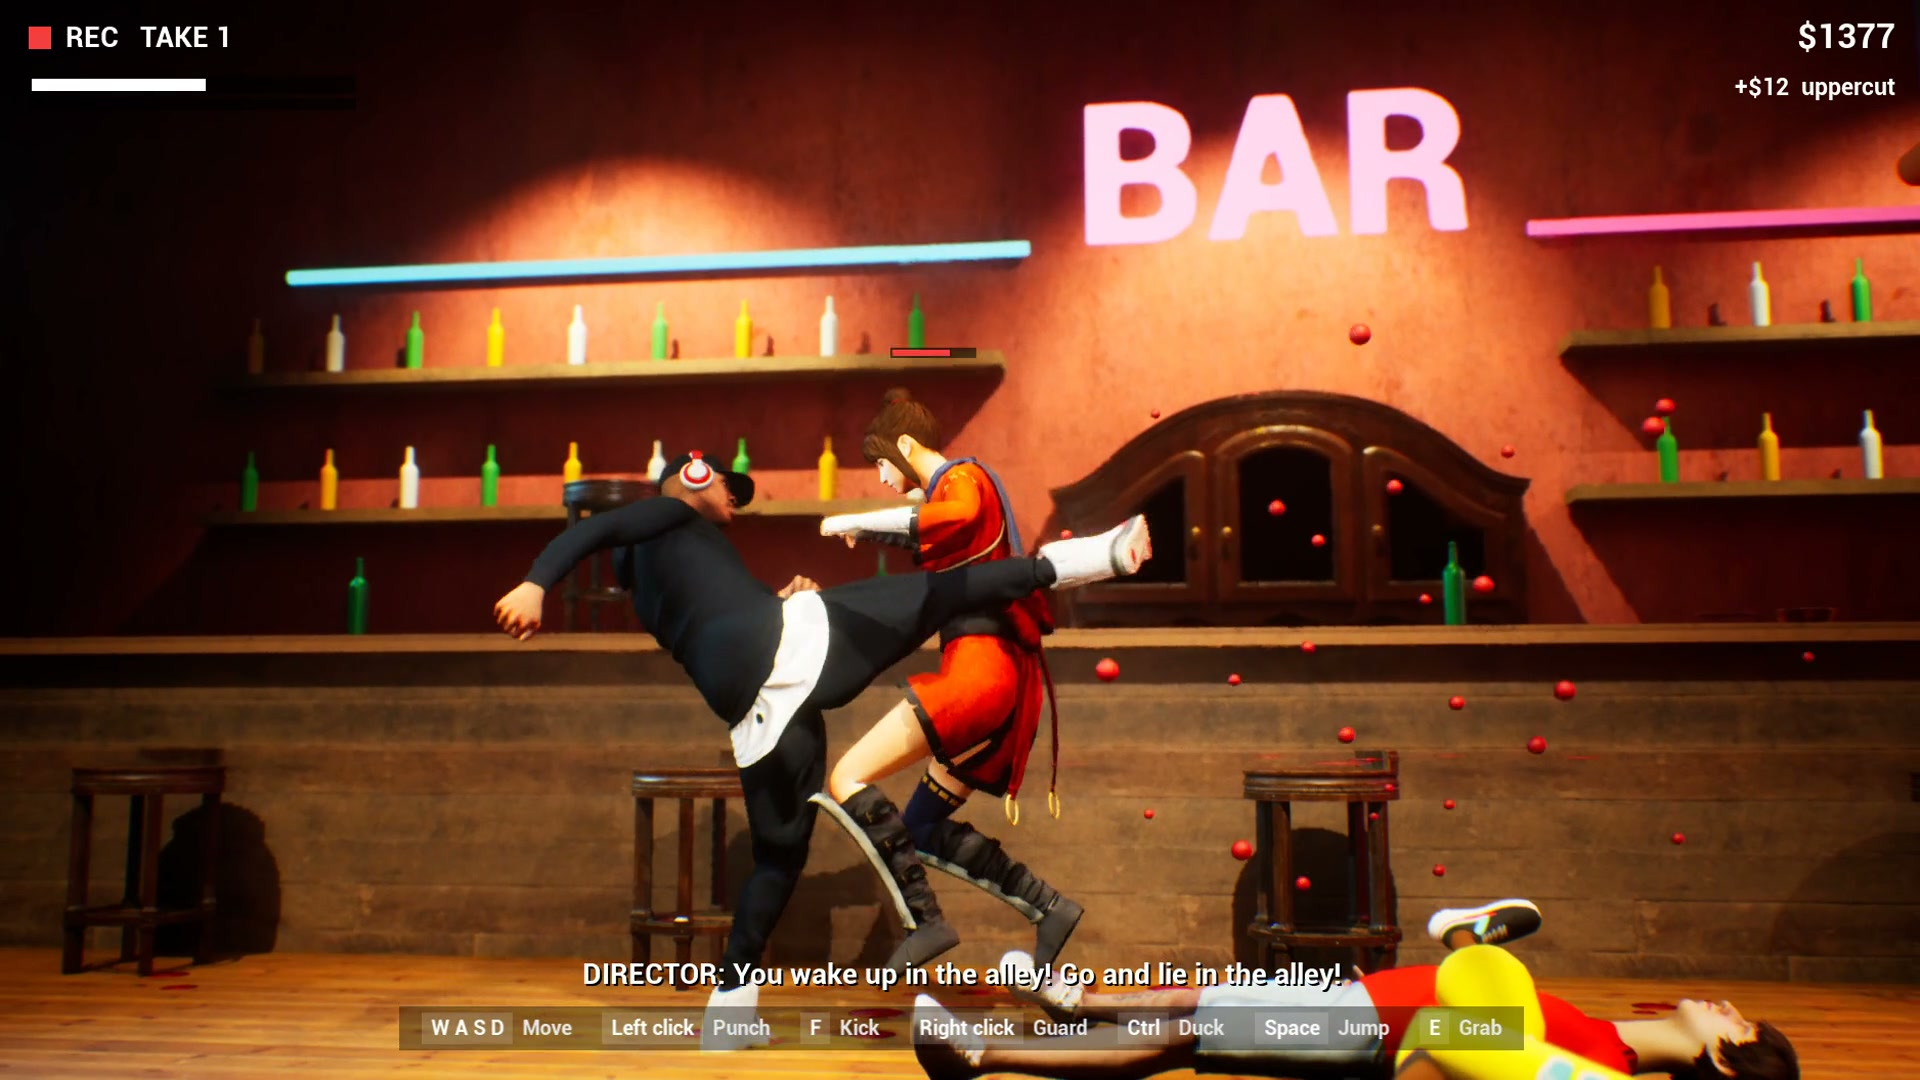
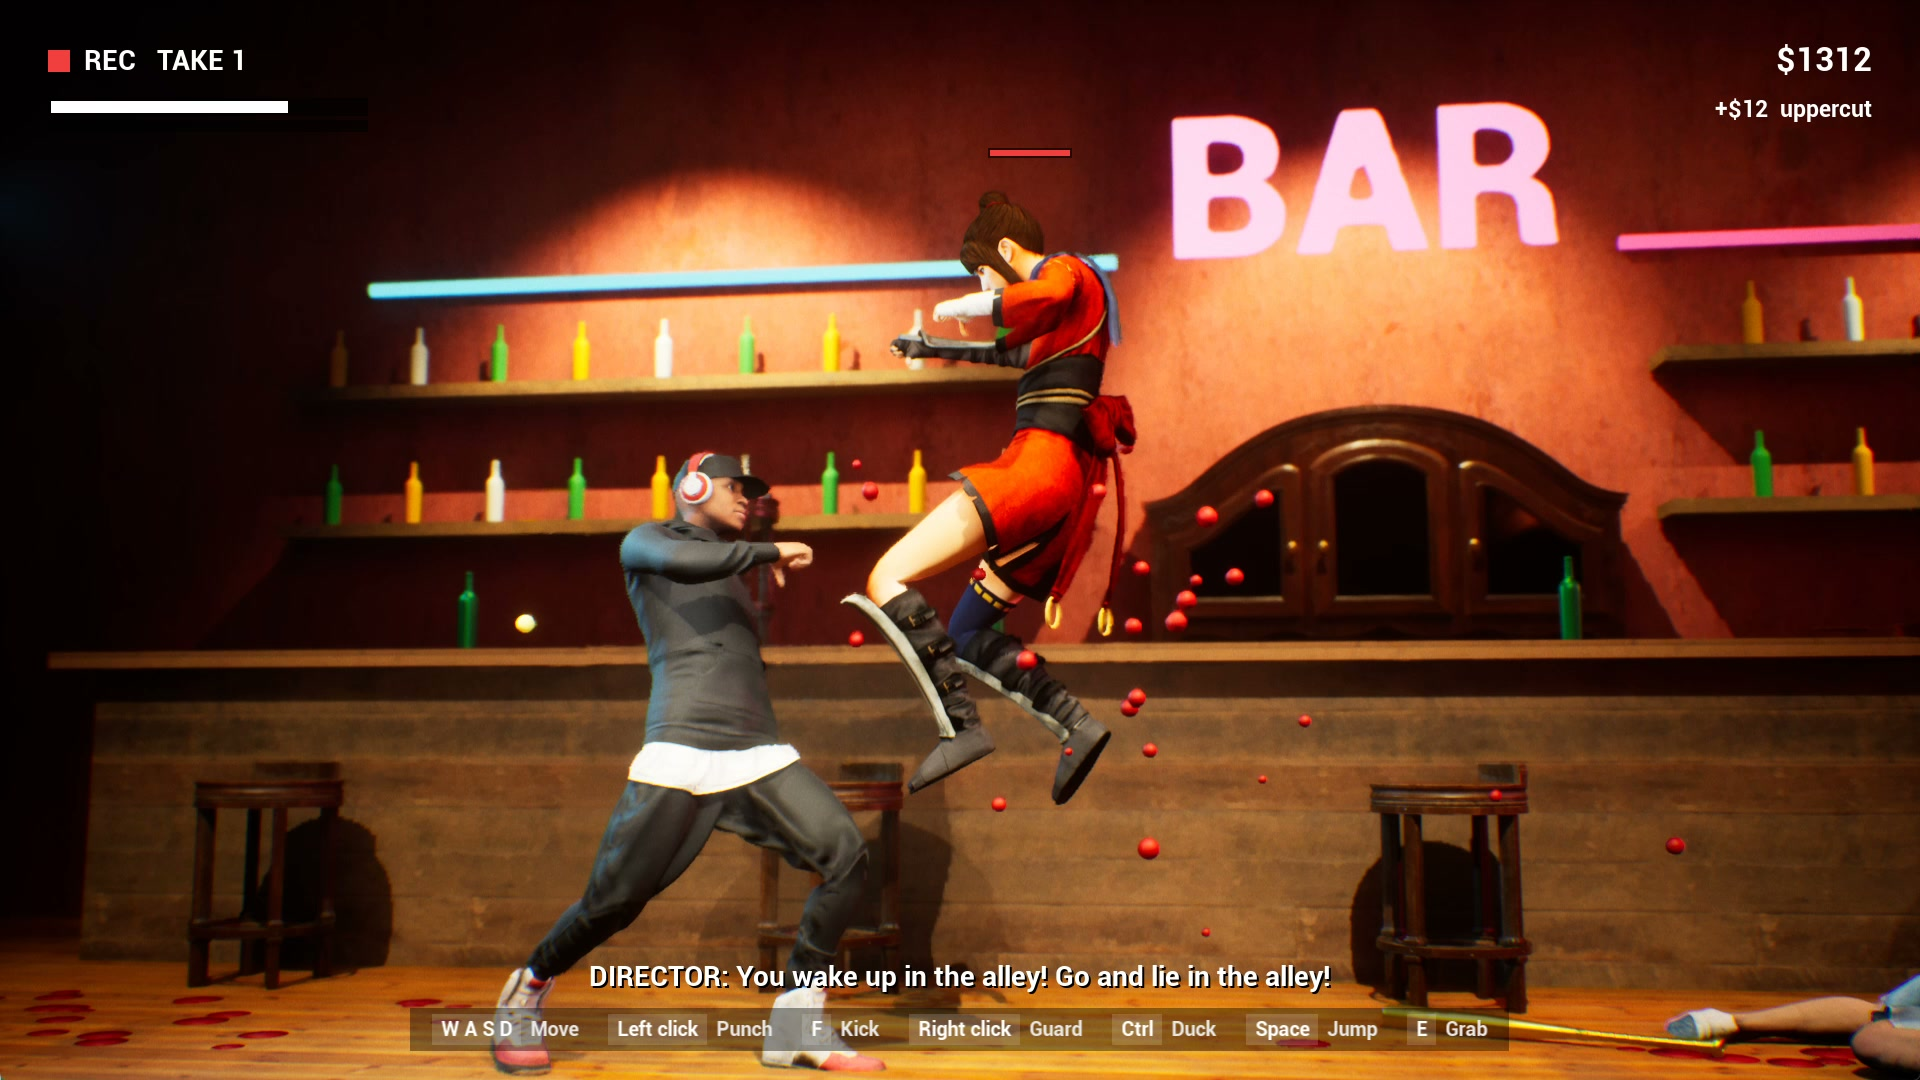
The project as it stood at c3dafcf

diff --git a/Source/StickToTheScript/Fighter/StickFighter.cpp b/Source/StickToTheScript/Fighter/StickFighter.cpp
@@ -374,6 +374,16 @@ namespace
 	const double ThrowLeanRadians = 0.42;
 	// A strike thrown from too close steps back by up to this much, so the fist does not go through the body.
 	const double StepBackDistance = 40.;
+	// The body a fist or a foot stops at, as a post round where an opponent stands: how wide it is for a fighter of
+	// the usual build, from how high above the floor to how high, and how far a fist and a foot go on past the
+	// wrist and the ankle that are their joints. A limb is never drawn back to less than this share of its reach.
+	const double ChestRadius = 13.;
+	const double BodyStartsAbove = 45.;
+	const double BodyEndsAbove = 185.;
+	const double DuckedBodyEndsAbove = 125.;
+	const double FistPastWrist = 9.;
+	const double FootPastAnkle = 14.;
+	const double ShortestDrawnBack = 0.25;
 
 	// Where an elbow or knee sits, given both ends of the limb, its two lengths and the way it bends.
 	FVector MiddleJoint(const FVector& Root, const FVector& End, double UpperLength, double LowerLength, const FVector& BendDirection)
@@ -1578,10 +1588,9 @@ TArray<FVector> AStickFighter::BuildJoints(bool bWithBrokenArms) const
 		}
 	}
 
-	// Not during a strike: a carried prop then follows the fists, which is what makes a swing of it.
-	if (CarryAlpha > 0.f && State != EFighterState::Busy)
+	// How whatever is carried is held. A crate is carried overhead. A weapon is held ready in front of the chest.
+	const auto PoseCarry = [this, &Joints]()
 	{
-		// A crate is carried overhead. A weapon is held ready in front of the chest.
 		const EPropHold Hold = Carried.IsValid() ? Carried->GetHold() : EPropHold::Overhead;
 		const FVector Ahead = GetActorForwardVector();
 		if (Hold == EPropHold::LongGun || Hold == EPropHold::OneHand)
@@ -1592,10 +1601,12 @@ TArray<FVector> AStickFighter::BuildJoints(bool bWithBrokenArms) const
 			const FVector Outward = FVector::UpVector ^ Ahead;
 			if (Hold == EPropHold::LongGun)
 			{
-				// Shouldered: the right hand at the grip by the chest, the left forward under the barrel.
-				const FVector Grip = Held[RightShoulder] + Ahead * 16. - FVector::UpVector * 15. - Outward * 5.;
+				// Shouldered: the right hand at the grip, far enough ahead of the shoulder that the butt rests on it and
+				// does not stand out behind, and the left as far forward under the barrel as it reaches. The gun is
+				// kept by its grip (GripToMiddle in ThrownProp.cpp), a forearm's length ahead of its butt.
+				const FVector Grip = Held[RightShoulder] + Ahead * 30. - FVector::UpVector * 7. - Outward * 4.;
 				ReachWithArm(Held, Reach, 1, Grip, Outward * 0.7 - FVector::UpVector);
-				ReachWithArm(Held, Reach, 0, Grip + Ahead * 36. + FVector::UpVector * 2., -Outward * 0.3 - FVector::UpVector);
+				ReachWithArm(Held, Reach, 0, Grip + Ahead * 30. - FVector::UpVector, -Outward * 0.3 - FVector::UpVector);
 			}
 			else
 			{
@@ -1609,8 +1620,9 @@ TArray<FVector> AStickFighter::BuildJoints(bool bWithBrokenArms) const
 		}
 		else if (Hold == EPropHold::Pistol)
 		{
-			// In both hands, out in front and a little under the eye, with the elbows bent.
-			PoseArms(Joints, Ahead, CarryAlpha, 38., 2.5, -12.);
+			// In both hands at arm's length, a little under the eye, the elbows only just bent. Held closer, as it
+			// first was, the elbows stood out to the sides and it was the grip of someone about to swing a bat.
+			PoseArms(Joints, Ahead, CarryAlpha, 47., 2.5, -6.);
 		}
 		else if (Hold == EPropHold::Swung)
 		{
@@ -1620,6 +1632,11 @@ TArray<FVector> AStickFighter::BuildJoints(bool bWithBrokenArms) const
 		{
 			PoseArms(Joints, Ahead, CarryAlpha, 6., 15., 32.);
 		}
+	};
+	// Not during a strike: a carried prop then follows the fists, which is what makes a swing of it.
+	if (CarryAlpha > 0.f && State != EFighterState::Busy)
+	{
+		PoseCarry();
 	}
 
 	if (ThrowSecondsLeft > 0.f && State != EFighterState::Busy)
@@ -1645,6 +1662,13 @@ TArray<FVector> AStickFighter::BuildJoints(bool bWithBrokenArms) const
 		PoseTechnique(Joints, GetActorForwardVector(), StrikeMove, Phase, PosedSide);
 	}
 
+	// A gun stays in its hold through a kick. Left to follow one fist, as other props do, it waved about over its
+	// carrier's head while his legs did the work.
+	if (CarryAlpha > 0.f && State == EFighterState::Busy && Carried.IsValid() && Carried->IsGun())
+	{
+		PoseCarry();
+	}
+
 	if (bAiming)
 	{
 		const double Upper = FVector::Dist(Joints[RightShoulder], Joints[RightElbow]);
@@ -1652,6 +1676,12 @@ TArray<FVector> AStickFighter::BuildJoints(bool bWithBrokenArms) const
 		const FVector Towards = (AimPoint - Joints[RightShoulder]).GetSafeNormal();
 		Joints[RightHand] = Joints[RightShoulder] + Towards * ((Upper + Lower) * 0.96);
 		Joints[RightElbow] = MiddleJoint(Joints[RightShoulder], Joints[RightHand], Upper, Lower, -FVector::UpVector);
+		// The other hand comes up under the grip, as far as it reaches: a pistol held out in one fist was a toy.
+		const double LeftUpper = FVector::Dist(Joints[LeftShoulder], Joints[LeftElbow]);
+		const double LeftLower = FVector::Dist(Joints[LeftElbow], Joints[LeftHand]);
+		const FVector Support = Joints[RightHand] - Towards * 5. - FVector::UpVector * 3.;
+		Joints[LeftHand] = Joints[LeftShoulder] + (Support - Joints[LeftShoulder]).GetClampedToMaxSize((LeftUpper + LeftLower) * 0.99);
+		Joints[LeftElbow] = MiddleJoint(Joints[LeftShoulder], Joints[LeftHand], LeftUpper, LeftLower, -FVector::UpVector);
 	}
 
 	if (RecoilProgress < 1.f)
@@ -1664,6 +1694,8 @@ TArray<FVector> AStickFighter::BuildJoints(bool bWithBrokenArms) const
 		}
 	}
 
+	KeepOutOfBodies(Joints);
+
 	if (bWithBrokenArms)
 	{
 		for (int32 Side = 0; Side < 2; ++Side)
@@ -1675,6 +1707,61 @@ TArray<FVector> AStickFighter::BuildJoints(bool bWithBrokenArms) const
 		}
 	}
 	return Joints;
+}
+
+void AStickFighter::KeepOutOfBodies(TArray<FVector>& Joints) const
+{
+	// The plain figure was a line and a strike could not go into it. A model has a chest, and a kick that reached
+	// the line had gone a shin's length into the body. So an opponent on his feet is taken for an upright post, and
+	// a wrist or an ankle that is inside it is drawn back along its limb to where the limb went in.
+	const int32 Ends[4][3] = { { LeftShoulder, LeftElbow, LeftHand }, { RightShoulder, RightElbow, RightHand }, { LeftHip, LeftKnee, LeftFoot }, { RightHip, RightKnee, RightFoot } };
+	for (TActorIterator<AStickFighter> It(GetWorld()); It; ++It)
+	{
+		const AStickFighter* Other = *It;
+		if (Other == this || Other->Team == Team || Other->IsDown())
+		{
+			continue;
+		}
+		const double Scale = Other->GetActorScale3D().Z;
+		const FVector Stands = Other->GetActorLocation();
+		const double Bottom = Stands.Z + BodyStartsAbove * Scale;
+		const double Top = Stands.Z + (Other->IsDucking() ? DuckedBodyEndsAbove : BodyEndsAbove) * Scale;
+		for (int32 Limb = 0; Limb < 4; ++Limb)
+		{
+			FVector& End = Joints[Ends[Limb][2]];
+			// The fist goes on past the wrist and the foot past the ankle, so the post is that much wider for them.
+			const double Radius = (ChestRadius * Other->Thickness / UsualThickness + (Limb < 2 ? FistPastWrist : FootPastAnkle)) * Scale;
+			const FVector Root = Joints[Ends[Limb][0]];
+			FVector& Middle = Joints[Ends[Limb][1]];
+			// Where the line from the limb's root to its end goes into the post, seen from above.
+			const FVector2D Step(End - Root);
+			const FVector2D Off(Root - Stands);
+			const double A = Step.SizeSquared();
+			const double B = 2. * (Off | Step);
+			const double C = Off.SizeSquared() - FMath::Square(Radius);
+			const double Reaches = B * B - 4. * A * C;
+			// With the limb's root inside as well, the two are standing in each other and no limb can be put right.
+			if (A < 1. || C <= 0. || Reaches <= 0.)
+			{
+				continue;
+			}
+			// A limb that goes in stops there, whether its end is inside or has come out on the far side.
+			const double WentIn = (-B - FMath::Sqrt(Reaches)) / (2. * A);
+			const double WentInAt = FMath::Lerp(Root.Z, End.Z, WentIn);
+			if (WentIn <= 0. || WentIn >= 1. || WentInAt < Bottom || WentInAt > Top)
+			{
+				continue;
+			}
+			const double Upper = FVector::Dist(Root, Middle);
+			const double Lower = FVector::Dist(Middle, End);
+			// The limb keeps the way it was bent, or bends as a limb does if it was straight: a knee up and
+			// forward, an elbow down.
+			const FVector WasBent = Middle - (Root + End) * 0.5;
+			const FVector Bend = WasBent.SizeSquared() > 4. ? WasBent : Limb < 2 ? -FVector::UpVector : GetActorForwardVector() + FVector::UpVector;
+			End = FMath::Lerp(Root, End, FMath::Clamp(WentIn, ShortestDrawnBack, 1.));
+			Middle = MiddleJoint(Root, End, Upper, Lower, Bend);
+		}
+	}
 }
 
 uint8 AStickFighter::GetBrokenArms() const

diff --git a/Source/StickToTheScript/Core/StickGameInstance.cpp b/Source/StickToTheScript/Core/StickGameInstance.cpp
@@ -2,6 +2,7 @@
 
 #include "AudioMixerBlueprintLibrary.h"
 #include "Containers/Ticker.h"
+#include "Engine/Engine.h"
 #include "HAL/FileManager.h"
 #include "JsonObjectConverter.h"
 #include "Misc/AutomationTest.h"
@@ -42,6 +43,11 @@ namespace
 void UStickGameInstance::Init()
 {
 	Super::Init();
+#if !WITH_EDITOR
+	// The jam asks for a Development build, and such a build writes the engine's own warnings over the picture: one
+	// about shadow maps came up in the middle of a film on the roof. A player has no use for them.
+	GAreScreenMessagesEnabled = false;
+#endif
 	GConfig->GetInt(ProgressSection, TEXT("ScenesWrapped"), ScenesWrapped, GGameUserSettingsIni);
 	GConfig->GetInt(ProgressSection, TEXT("Banked"), Banked, GGameUserSettingsIni);
 	GConfig->GetInt(ProgressSection, TEXT("OwnedLooks"), OwnedLooks, GGameUserSettingsIni);

diff --git a/Source/StickToTheScript/Fighter/StickFighter.h b/Source/StickToTheScript/Fighter/StickFighter.h
@@ -235,6 +235,8 @@ private:
 	void SwingBrokenArms(float DeltaSeconds);
 	void DemoNextMove();
 	TArray<FVector> BuildJoints(bool bWithBrokenArms) const;
+	// Brings a hand or a foot that has gone into an opponent's body back to its surface, and bends the limb to suit.
+	void KeepOutOfBodies(TArray<FVector>& Joints) const;
 	void PoseStick(const TArray<FVector>& Joints, uint8 BrokenArms);
 	void AdvanceFreeMovement(float DeltaSeconds);
 	void LandFreeStrike(const FVector& StrikePoint);

diff --git a/Docs/StorePage.md b/Docs/StorePage.md
@@ -75,12 +75,12 @@ Made by one developer directing an AI coding agent (Claude Code). The agent wrot
 
 The page exists as a draft since Fri Nov 13: https://the-fighter-ps.itch.io/stick-to-the-script (only the developer can see it). Its text, genre, tags and AI disclosure are filled in from this file, last on Sun Nov 15 at about 06:45, when its six pictures and its cover were also replaced with ones that show the cast. The zip on the page is Sunday's since Sun Nov 15 at 14:37, and the video it links to since 14:49.
 
-- [x] Cover, screenshots and the zip uploaded to the draft, on Fri Nov 13. The zip there is replaced whenever the game changes, last on Sun Nov 15 at 14:37 with the zip built that day at 13:14, 598 MB: the build with the cast, the big finish, the film's new cutting, the wardrobe that dyes and the new wounds. A file chooser opens only for the tab Chrome is showing, so the developer brought the tab to the front first. The game changed again that afternoon (a new heavy, a kid with a face): the zip built at 15:53, 611 MB, is the one to upload now. The page's upload buttons open a file chooser; `Toolschoose_file.ps1` fills it in
+- [x] Cover, screenshots and the zip uploaded to the draft, on Fri Nov 13. The zip there is replaced whenever the game changes, last on Sun Nov 15 at 14:37 with the zip built that day at 13:14, 598 MB: the build with the cast, the big finish, the film's new cutting, the wardrobe that dyes and the new wounds. A file chooser opens only for the tab Chrome is showing, so the developer brought the tab to the front first. The game changed again that afternoon (a new heavy, a kid with a face): the zip built at 17:14, 611 MB, is the one to upload now. The page's upload buttons open a file chooser; `Toolschoose_file.ps1` fills it in
 
 - [x] Team name: Page Twelve. The zip is `PageTwelve_StickToTheScript.zip`, made by `Tools\release.ps1 -Team PageTwelve`
-- [ ] Screenshots taken from the packaged game. Eight are in `Docs/store`, taken at 1920 by 1080 from a gameplay video of a self-played run of Sun Nov 15, 06:05, with the cast in it; the cover is cut from the second of them. (The eight before them, of Sat Nov 14, showed the dummy.) The eighth is the slate that ends a film. The strip along the top, where a tool on the developer's PC draws its frame counter, is cut off. Six of them are on the draft page since Sat Nov 14, 18:41, in this order: warehouse, bar, rooftop, the choice of cut, a film shot, the slate; `6-film-bar` and `7-film-rooftop` were left off. The developer has not chosen among them
+- [ ] Screenshots taken from the packaged game. Eight are in `Docs/store`, taken at 1920 by 1080 from a gameplay video of a self-played run of Sun Nov 15, 06:05, with the cast in it; the cover is cut from the second of them. (The eight before them, of Sat Nov 14, showed the dummy.) The eighth is the slate that ends a film. The strip along the top, where a tool on the developer's PC draws its frame counter, is cut off. Six of them are on the draft page, last replaced on Sun Nov 15 at 16:19 with frames of that afternoon's recording, in this order: warehouse, bar, rooftop, the choice of cut, a film shot, the slate; `6-film-bar` and `7-film-rooftop` were left off. The developer has not chosen among them
 - [x] A cover image, 630 by 500: `Docs/store/cover.png`
-- [x] The link to the 30 to 60 second gameplay video: https://www.youtube.com/watch?v=Rvms7Hs-x0Y (57 seconds, a self-played run of the build of Sun Nov 15 with the cast and the new wounds, cut at 13:42 and uploaded by the developer that afternoon). It is on the draft page too, since 14:49, and YouTube shows it without a sign-in. The videos before it were https://www.youtube.com/watch?v=HJW6ExPfZdc of Sat Nov 14 and https://www.youtube.com/watch?v=zvQRRTC56iA of Fri Nov 13. It is made again if the game changes much
+- [x] The link to the 30 to 60 second gameplay video: https://www.youtube.com/watch?v=Rvms7Hs-x0Y (57 seconds, a self-played run of the build of Sun Nov 15 with the cast and the new wounds, cut at 13:42 and uploaded by the developer that afternoon). It is on the draft page too, since 14:49, and YouTube shows it without a sign-in. The game changed again after it (a new heavy, the kid): a newer cut, 58.9 seconds, made at 16:10, is `Saved/Release/StickToTheScript_gameplay.mp4` and is not on YouTube yet. The videos before it were https://www.youtube.com/watch?v=HJW6ExPfZdc of Sat Nov 14 and https://www.youtube.com/watch?v=zvQRRTC56iA of Fri Nov 13. It is made again if the game changes much
 - [x] A public link for the dev log: https://github.com/ahmadkhalaf1/stick-to-the-script-devlog. It is a copy of this repository without the binary assets and without the history, refreshed by `Tools\publish_devlog.ps1`
 - [x] The gamepad column: no gamepad has been tried, so the page on itch.io lists keyboard and mouse only
 - [ ] The developer has read this text and agrees with it

diff --git a/DEVLOG.md b/DEVLOG.md
@@ -1574,6 +1574,20 @@ Entry for the 2026 Epic AI MegaJam (theme: Director's Cut). This log records, as
   - Eight store pictures had been picked from the 13:29 recording before the developer spoke. They show the old heavy lying about and were dropped.
 - **Not verified:** nobody has played with any of this, and the developer has seen Brute only in a picture. Brute, the kid and the crown were seen in the editor; in the packaged build they have been run, not seen. The heavy's and the boss's wounds were seen only at a distance. Whether an axe that never cuts is a good joke or a bad one is the developer's to say.
 
+### 17:14 · A new video, guns held like guns, and fists that stop at a body
+
+- **Developer said:** "Record now", for a new video with the new heavy in it. Then, playing the build, three messages: "holding gun animation is very bad"; "hitting enemies body is overlapping with enemies , hitting with legs , leg is getting inside the body of the enemy , it need to hit the body not going inside it"; "holding the rifle is bad".
+- **Agent did, the video and the page:** recorded the packaged game from 16:01 to 16:08 and cut 58.9 seconds from it at 16:10. Measured every one of its 3522 frames for a menu's flat grey and looked at two frames a second: nothing but the game. Took eight store pictures and a cover from the same recording, and put the new credits text, six pictures and the cover on the draft page at about 16:19.
+- **Agent did, found in that recording:** the engine writes its own warnings over the picture in a Development build, and one about shadow maps stood across the top of the roof's film. The packaged game now has those messages off.
+- **Agent did, the guns:** looked at frames of the hero with a pistol and with a rifle. The pistol was held in two fists at the chin with the elbows out, the grip of someone about to swing a bat. The rifle's butt stood out behind the shoulder. And through a kick any gun followed one fist, over its carrier's head. Now a pistol is held at arm's length in both hands; a rifle's grip is a forearm ahead of the shoulder, so the butt rests on it; a gun stays in its hold through a kick; and a gunman aiming brings his other hand up under the grip.
+- **Agent did, the strikes:** the plain figure was a line, and a strike could not go into it. A model has a chest. An opponent on his feet is now taken for an upright post, and a wrist or an ankle whose limb goes into the post is drawn back along the limb to where it went in, and the limb bends to suit.
+- **Result:** `Tools/check.ps1` passes with 8 tests. Photographed in the editor: the hero with a pistol and with a rifle, standing and in the middle of a kick, the guns where they should be; a self-played warehouse fight with no limb seen in a body. Packaged at 17:08, 892 MB; the packaged game played itself through the three scenes to the end card in three takes with no errors in its log; the zip is 611 MB, made at 17:14.
+- **Went wrong:**
+  - The first compile failed: the new constant `BodyRadius` had the name of one already in the file.
+  - Two tests of the holds photographed nothing: in one the game's own player threw the gun away before the picture, in the other the test's own key press threw it. The third put the gun at the hero's feet in the scene's file, let the game pick it up, and stopped it there. The file was put back each time.
+  - The new zip did not get onto the draft page. After the browser tool's own file upload had been used on a tab for the pictures, Chrome opened no file chooser for that tab any more; the fresh tab opened in its place fell out of the agent's control when the old one was closed. The developer had brought the tab to the front for nothing, twice.
+- **Not verified:** the developer has not said whether the holds and the kicks are right now. The kicks were judged from small frames of a self-played fight, in which no limb was seen in a body; nobody has counted. The video of 16:10 was recorded before these fixes and shows the old holds. The zip on the draft page is still the one of 13:14.
+
 ---
 
 ## Asset and tool register

diff --git a/Plan/Tasks/S3-FIGHT-20 A new heavy and a kid.md b/Plan/Tasks/S3-FIGHT-20 A new heavy and a kid.md
@@ -23,13 +23,15 @@ depends:
 
 **Found on the way:** a gunman who lost his right forearm kept a pistol hanging in the air where his hand had been. The gun goes with the forearm.
 
+**Asked for while the developer played the build, the same afternoon:** guns held like guns (a pistol at arm's length in both hands, a rifle with its butt on the shoulder, and both kept there through a kick), and a fist or a foot that stops at the body it lands on. `KeepOutOfBodies` in `Fighter/StickFighter.cpp` takes an opponent on his feet for an upright post and draws a limb back to where it went in.
+
 **Done when:**
 - [x] Brute fights as the heavy in his own skin: photographed in the warehouse, whole and hurt
 - [x] The kid is kid-sized and stands up: photographed on the roof beside a thug
 - [x] The crown reads as a crown: photographed in the wardrobe
 - [x] The packaged build has all of it and plays itself to the end card: run and its log read, not seen
 - [ ] The gameplay video and the store pictures show the game as it is
-- [ ] The store page and the dev log's register name Brute and Timmy, and no longer Big Vegas
+- [x] The store page and the dev log's register name Brute and Timmy, and no longer Big Vegas
 - [ ] The developer has seen them in the game
 
 Sprint: [[Sprint 3 - Feel and lock]] · Stream: fight
